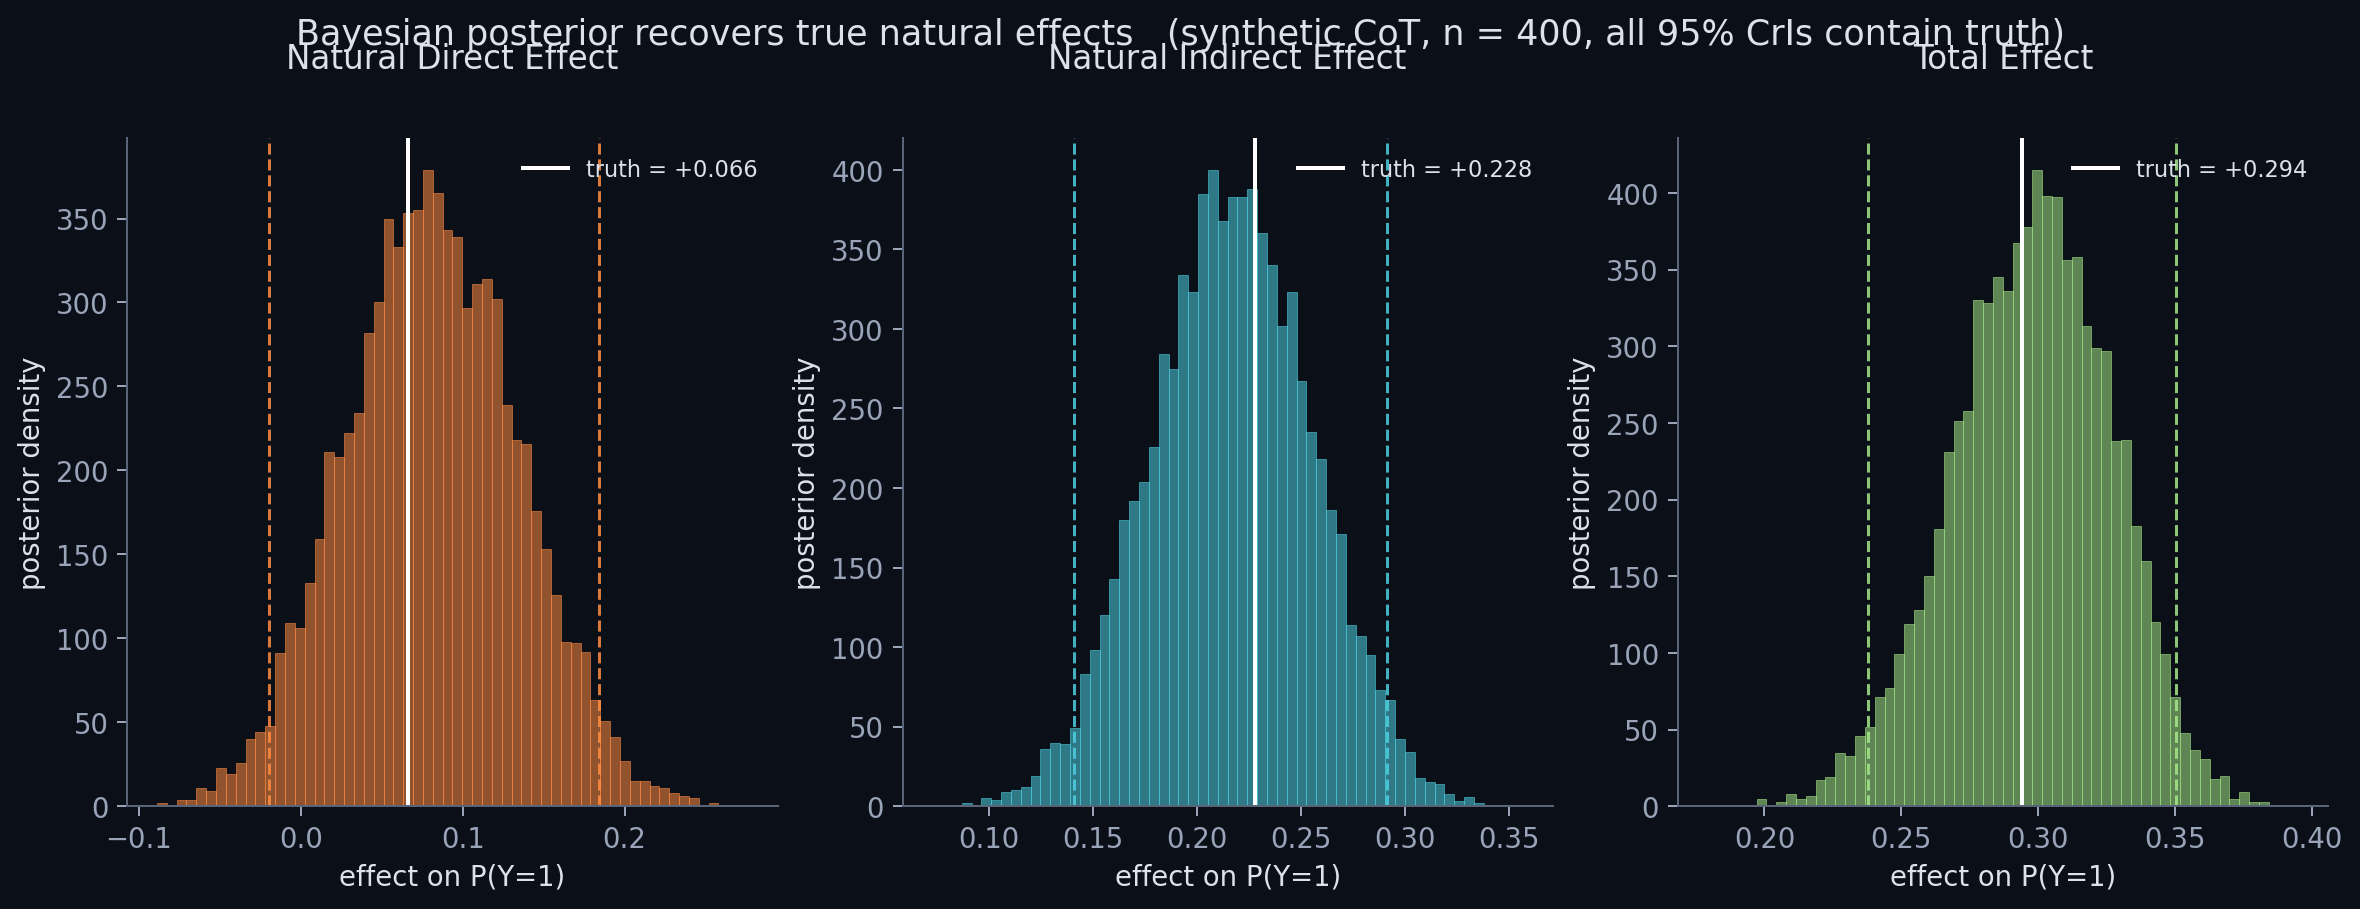
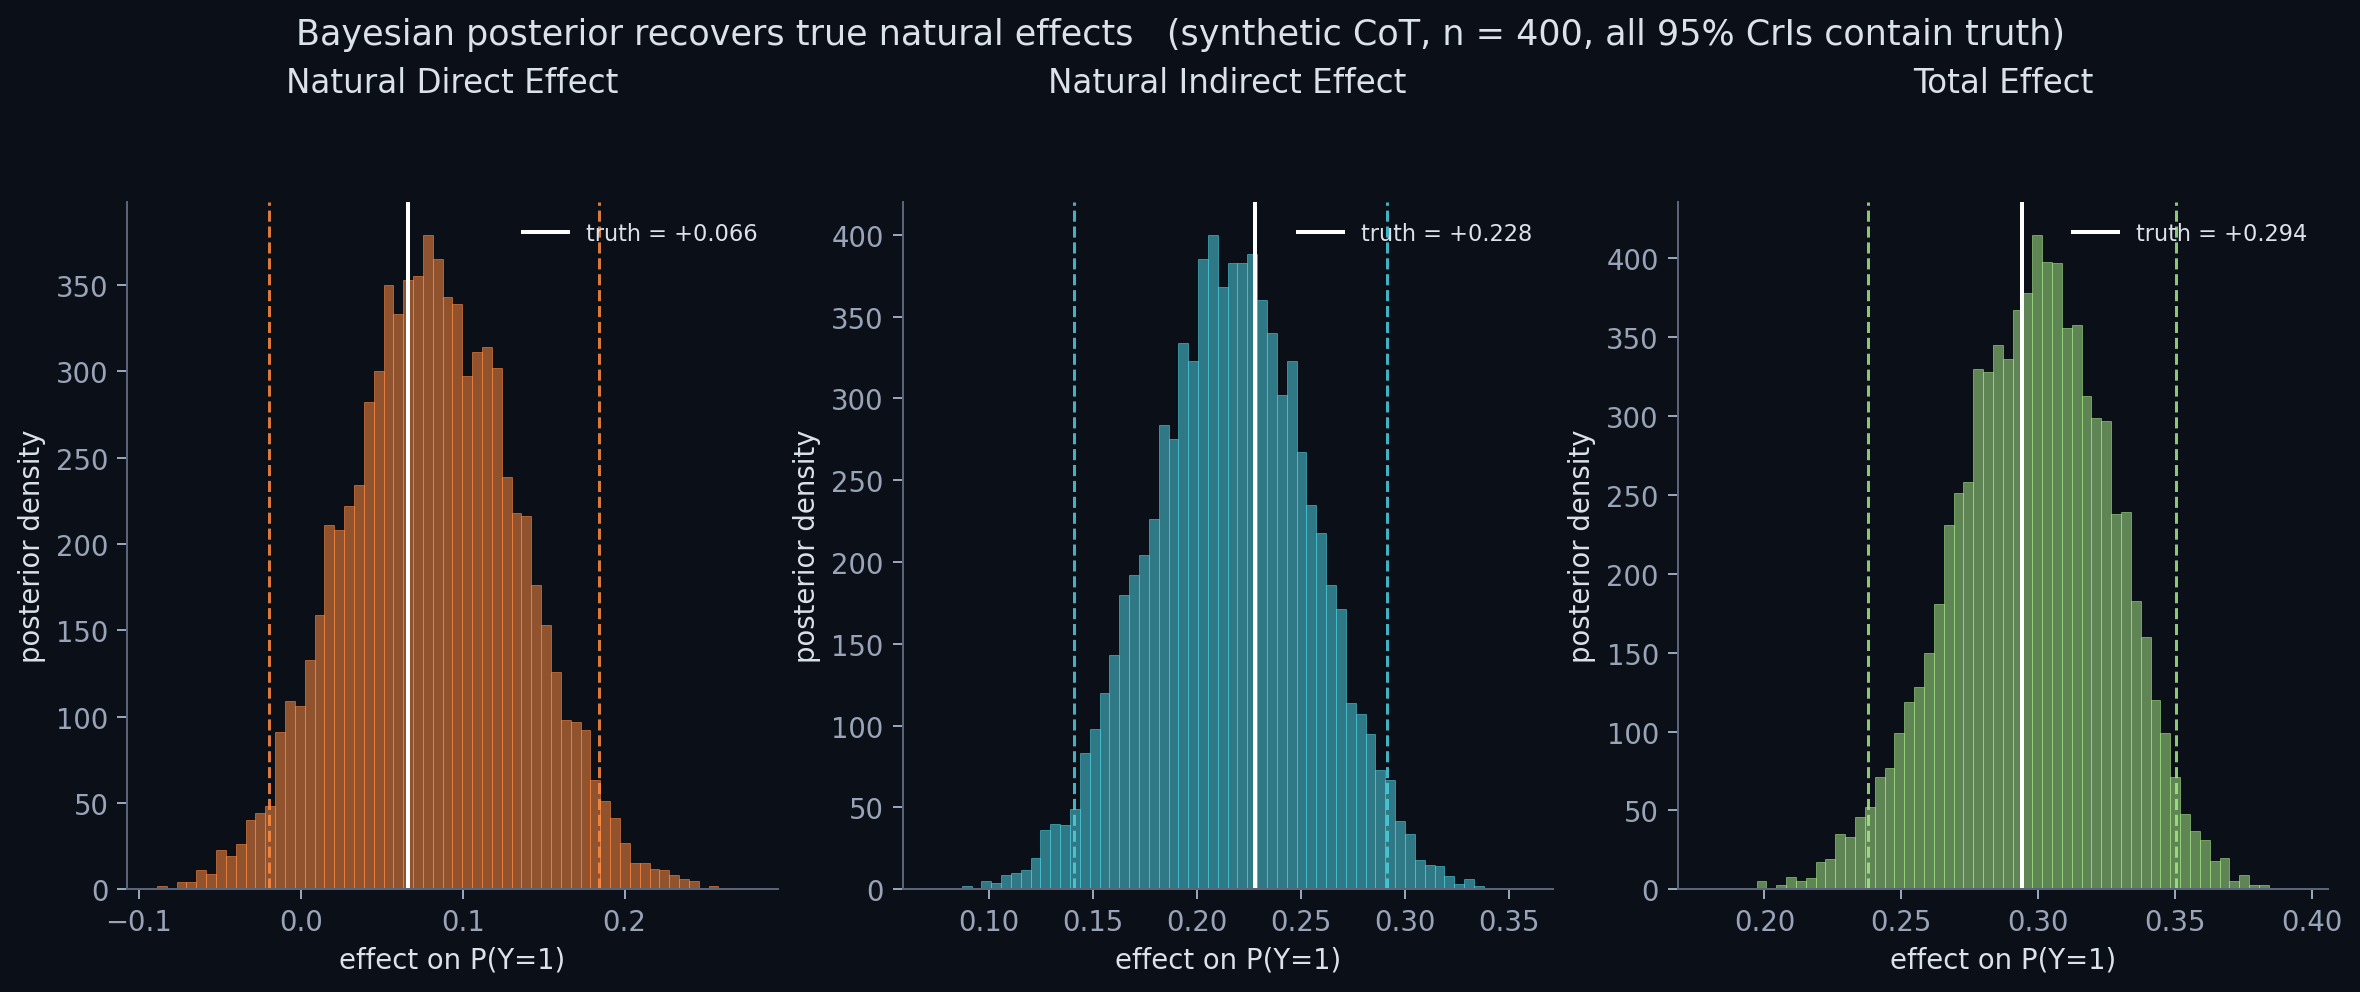
Remove follow-on funding line, rephrase aligned-looking, fix chart title overlap

diff --git a/docs/site/index.html b/docs/site/index.html
@@ -149,7 +149,7 @@
     <div class="card reveal">
       <div class="card-icon cyan">&#9678;</div>
       <h3>Deceptive alignment slips through</h3>
-      <p>A deceptive model can write aligned-looking CoT while the actual computation does something else. Distinguishing this from "the CoT genuinely drives the answer" requires causal (not correlational) analysis along with proper power calculations.</p>
+      <p>A deceptive model can write innocent-looking CoT while the actual computation does something else. Telling that apart from "the CoT genuinely drives the answer" needs a causal (not correlational) analysis, along with proper power calculations.</p>
     </div>
     <div class="card reveal">
       <div class="card-icon green">&#9678;</div>
@@ -721,8 +721,7 @@ $$\begin{bmatrix} \alpha_j \\ \beta_{1,j} \\ \beta_{2,j} \end{bmatrix} \sim \mat
       <p class="muted">
         A deliberately modest phase-1 ask. It covers the work needed to run the full
         pipeline on real open-source models and produce a first set of uncertainty-quantified
-        faithfulness numbers, with a small frontier-API sanity check. If initial results
-        land, I plan to come back for follow-on funding to cover a broader benchmark sweep.
+        faithfulness numbers, with a small frontier-API sanity check.
       </p>
     </div>
     <div class="budget-table">

diff --git a/notebooks/02_generate_figure.py b/notebooks/02_generate_figure.py
@@ -55,7 +55,7 @@ def main() -> None:
         "font.size": 11,
     })
 
-    fig, axes = plt.subplots(1, 3, figsize=(13, 4.8), constrained_layout=True)
+    fig, axes = plt.subplots(1, 3, figsize=(13, 5.4), constrained_layout=True)
     pairs = [
         ("Natural Direct Effect", pe.nde_samples, true_nde, "#ff8c42"),
         ("Natural Indirect Effect", pe.nie_samples, true_nie, "#4dd0e1"),
@@ -70,7 +70,7 @@ def main() -> None:
         ax.axvline(truth, color="#ffffff", linewidth=1.6, label=f"truth = {truth:+.3f}")
         ax.axvline(lo, color=color, linewidth=1.2, linestyle="--", alpha=0.85)
         ax.axvline(hi, color=color, linewidth=1.2, linestyle="--", alpha=0.85)
-        ax.set_title(title, pad=28, fontsize=13)
+        ax.set_title(title, pad=44, fontsize=13)
         ax.set_xlabel("effect on P(Y=1)")
         ax.set_ylabel("posterior density")
         ax.spines["top"].set_visible(False)
@@ -81,7 +81,7 @@ def main() -> None:
     fig.suptitle(
         "Bayesian posterior recovers true natural effects   "
         "(synthetic CoT, n = 400, all 95% CrIs contain truth)",
-        fontsize=14, y=1.02, color="#dbe2ea",
+        fontsize=14, color="#dbe2ea",
     )
 
     out_dir = Path(__file__).parent.parent / "figures"
